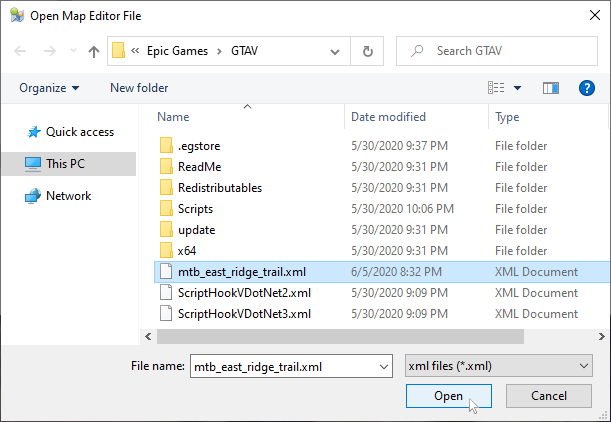
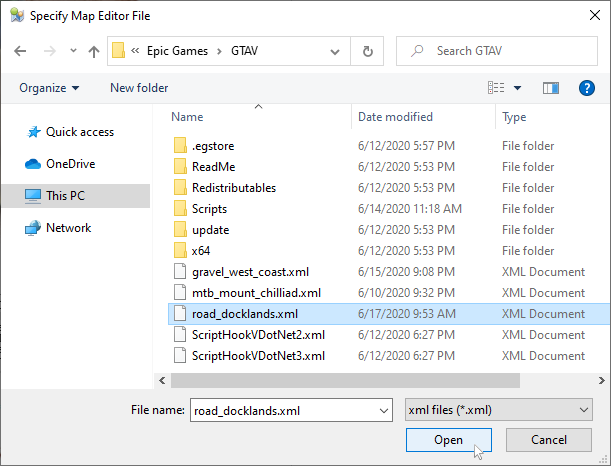
update documentation for v0.3.0

diff --git a/route-builder/GETTING-STARTED.md b/route-builder/GETTING-STARTED.md
@@ -8,6 +8,8 @@ Start **Route Builder** and select **Settings** tab.
 
 ![Settings](https://github.com/gtbikev/docs/blob/master/route-builder/images/settings.png)
 
+Select setting `Defaults`.
+
 Specify default directory for **Map Editor** by clicking the **Set Map Editor Directory** button. Select directory and click button **OK**.
 
 ![Settings-DefaultDirectory-MapEditor](https://github.com/gtbikev/docs/blob/master/route-builder/images/settings-default-directory-mapeditor.png)
@@ -26,7 +28,7 @@ Select **Convert Route** tab.
 
 ![ConvertRoute](https://github.com/gtbikev/docs/blob/master/route-builder/images/convertroute.png)
 
-Specify **Map Editor** file by clicking the **Open Map Editor File** button. Select **Map Editor** file and click button **OK**.
+Specify **Map Editor** file by clicking the **Set Map Editor File** button (or shortcut `Ctrl+O`). Select **Map Editor** file and click button **Open**.
 
 ![ConvertRoute-OpenMapEditorFile](https://github.com/gtbikev/docs/blob/master/route-builder/images/convertroute-open-mapeditor-file.png)
 
@@ -34,11 +36,12 @@ Specify **Map Editor** file by clicking the **Open Map Editor File** button. Sel
 
 ## Step 3: Convert Route
 
-The course file name has been automatically specified in the **Generate file name** field. Verify that the course file location is correct. Once done, click **Start** button to create the course file.
+The course file name has been automatically specified in the course **file name** field. Verify that the course file location is correct. Once done, click **Start** button (or shortcut `F5`) to create the course file.
 
 ![ConvertRoute-Start](https://github.com/gtbikev/docs/blob/master/route-builder/images/convertroute-start.png)
 
-> Tip: you can specify another course file location by clicking **Specify file name** and select the file loction with **Save Course File** button.
+> Tip: you can specify another course file location by selecting the file loction with **Set Course File** button (or shortcut `Ctrl+S`).
 
 ## Related Links
 * [Shortcuts](https://github.com/gtbikev/docs/blob/master/route-builder/SHORTCUTS.md) - a reference of available shortcuts in **Route Builder**
+* [Settings](https://github.com/gtbikev/docs/blob/master/route-builder/SETTINGS.md) - a reference of available settings in **Route Builder**

diff --git a/route-builder/SETTINGS.md b/route-builder/SETTINGS.md
@@ -1,0 +1,35 @@
+# Route Builder - Settings
+
+## Debug
+
+**Debug**
+
+| Setting           | Description                                                | Action                      |
+| :---------------- | :--------------------------------------------------------- | :-------------------------- |
+| Show Debug Window | Option to displays window for debugging output and dataset | Enable/disable debug window |
+
+## Defaults
+
+**Default File Name**
+
+| Setting            | Description                                        | Action                          |
+| :----------------- | :------------------------------------------------- | :------------------------------ |
+| Generate file name | Option to automatically generates course file name | Generate/empty course file name |
+
+**Default Directories**
+
+| Setting    | Description                                             | Action                                    |
+| :--------- | :------------------------------------------------------ | :---------------------------------------- |
+| Map Editor | Option to specify default directory of map editor files | Set default directory of map editor files |
+| Course     | Option to specify default directory of course files     | Set default directory of course files     |
+
+## Offsets
+
+**Offsets**
+
+| Setting        | Description                                  | Action                               |
+| :------------- | :------------------------------------------- | :----------------------------------- |
+| Enable Offsets | Option to enable offsets                     | Apply specified offsets to waypoints |
+| X Offset       | Option to apply offset to waypoint on X axis | Apply X offset for each waypoint     |
+| Y Offset       | Option to apply offset to waypoint on Y axis | Apply Y offset for each waypoint     |
+| Z Offset       | Option to apply offset to waypoint on Z axis | Apply Z offset for each waypoint     |

diff --git a/route-builder/INDEX.md b/route-builder/INDEX.md
@@ -5,3 +5,4 @@ To get the most out of [Grand Theft Bike V - Route Builder](https://github.com/g
 * [Setup](https://github.com/gtbikev/docs/blob/master/route-builder/SETUP.md) - install and run **Route Builder**
 * [Getting started](https://github.com/gtbikev/docs/blob/master/route-builder/GETTING-STARTED.md) - a quick guide how to use **Route Builder**
 * [Shortcuts](https://github.com/gtbikev/docs/blob/master/route-builder/SHORTCUTS.md) - a reference of available shortcuts in **Route Builder**
+* [Settings](https://github.com/gtbikev/docs/blob/master/route-builder/SETTINGS.md) - a reference of available settings in **Route Builder**

diff --git a/route-builder/SETUP.md b/route-builder/SETUP.md
@@ -28,3 +28,4 @@ Once you have installed and set up **Route Builder**, these topics will help you
 
 * [Getting started](https://github.com/gtbikev/docs/blob/master/route-builder/GETTING-STARTED.md) - a quick guide how to use **Route Builder**
 * [Shortcuts](https://github.com/gtbikev/docs/blob/master/route-builder/SHORTCUTS.md) - a reference of available shortcuts in **Route Builder**
+* [Settings](https://github.com/gtbikev/docs/blob/master/route-builder/SETTINGS.md) - a reference of available settings in **Route Builder**

diff --git a/route-builder/SHORTCUTS.md b/route-builder/SHORTCUTS.md
@@ -7,6 +7,7 @@
 | F1       | About         | Open url of github code page           |
 | F2       | Send Feedback | Open url of github issue page          |
 | F5       | Start         | Convert map editor file to course file |
+| F11      | Debug         | Enable/disable debug window            |
 
 ## Key
 
